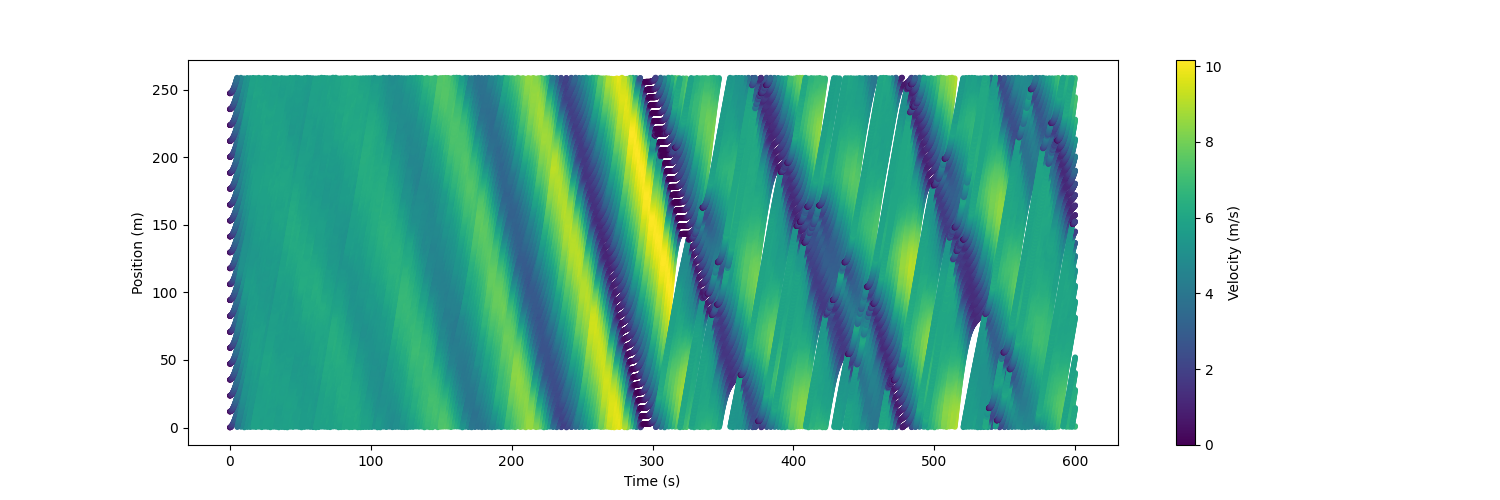
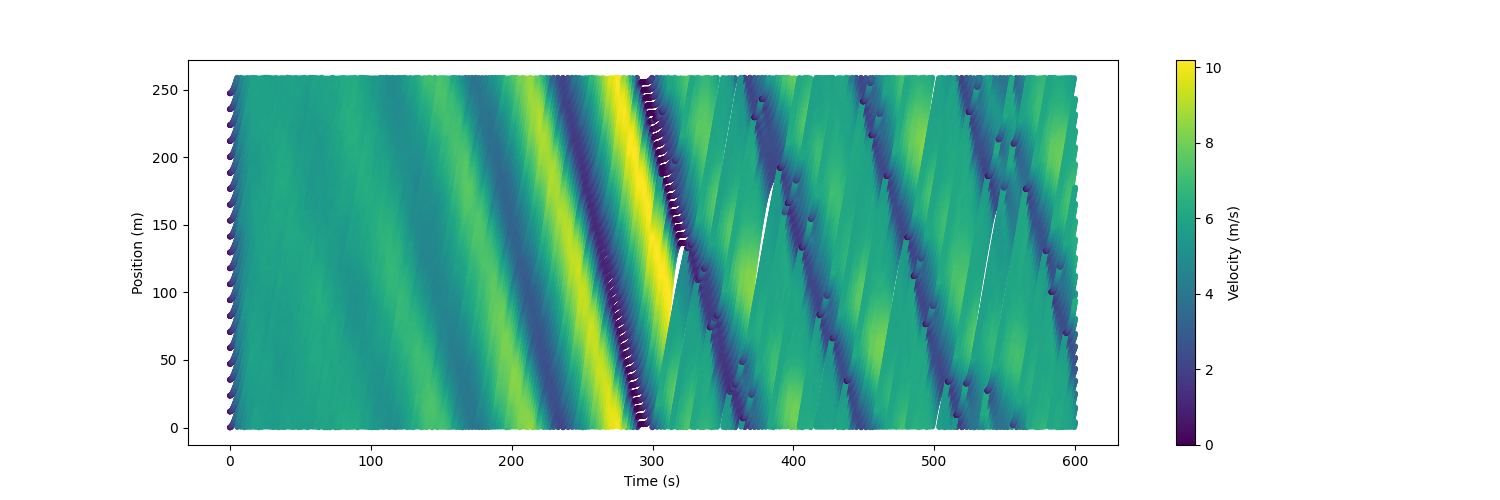
pushing change

diff --git a/Ring_Road/render/render.py b/Ring_Road/render/render.py
@@ -6,8 +6,9 @@ from Ring_Road.constants import DISPLAY_WIDTH, DISPLAY_HEIGHT, WHITE, BLACK, FPS
 
 class Render:
 
-    def __init__(self, env):
-        self.env = env
+    def __init__(self, agents, vehicles):
+        self.agents = agents
+        self.env_veh = vehicles
         pygame.init()
         pygame.display.set_caption("RingRoad Env")
         self.screen = pygame.display.set_mode((DISPLAY_WIDTH, DISPLAY_HEIGHT))
@@ -25,7 +26,7 @@ class Render:
 
     def _display_action(self):
 
-        for agents in self.env.agents:
+        for agents in self.agents:
 
             if isinstance(agents.stored_action, numpy.ndarray):
                 if agents.stored_action[0] > 0:
@@ -43,9 +44,9 @@ class Render:
         self._check_quit()
         self._create_background()
 
-        for agent in self.env.agents:
+        for ag_id, agent in self.agents.items():
             self._rotate_image_display(agent.image, agent.rotation, agent.xpos, agent.ypos)
-        for env_veh in self.env.env_veh:
+        for env_veh in self.env_veh:
             self._rotate_image_display(env_veh.image, env_veh.rotation, env_veh.xpos, env_veh.ypos)
 
         self._display_action()

diff --git a/main.py b/main.py
@@ -1,7 +1,7 @@
 import scripts.train_dqn, scripts.evaluate_idm, scripts.train_ppo, scripts.multiagent_train_ppo
 import argparse
 
-mixer = "qmix"
+mixer = "vdn"
 
 def main():
     parser = argparse.ArgumentParser()
@@ -31,7 +31,7 @@ def main():
 
     elif args.type == "multiagent_qmix_eval":
         scripts.multiagent_train_ppo.evaluate_qmix(
-            "/home/vamsi/Documents/GitHub/RingRoad-RL/Models/QMIX/QMIX/QMIX_grouped_ringroad_ff91a_00000_0_2022-05-04_20-59-33/checkpoint_000100/checkpoint-100", mixer)
+            "/home/vamsi/Documents/GitHub/RingRoad-RL/Models/VDN/QMIX/QMIX_grouped_ringroad_f0ec2_00000_0_2022-05-04_08-20-22/checkpoint_000095/checkpoint-95", mixer)
     elif args.type == "eval_idm":
         scripts.evaluate_idm.evaluate()
 

diff --git a/Ring_Road/envs/multiagent_ringroad.py b/Ring_Road/envs/multiagent_ringroad.py
@@ -45,8 +45,8 @@ class MultiAgentRingRoad(MultiAgentEnv):
         self.crashed_state = None
         self.state_extractor = StateExtractor(self)
 
-        if self.enable_render:
-            self.viewer = Render(self)
+        # if self.enable_render:
+        self.viewer = Render(self.agents, self.env_veh)
         self.collision = False
         np.random.seed(42)
 

diff --git a/Ring_Road/constants.py b/Ring_Road/constants.py
@@ -35,7 +35,7 @@ def clean_image(mycar_image):
                 mycar_image.set_at((x, y), (0, 0, 0, 0))
 
 
-cwd = "/home/vamsi/GitHub/RingRoad-RL"
+cwd = "/home/vamsi/Documents/GitHub/RingRoad-RL"
 
 env_car_image = pygame.image.load(cwd + "/Ring_Road/sprites/env_vehicle.png")
 env_car_image = pygame.transform.scale(env_car_image, (CAR_PIX_LENGTH, CAR_PIX_WIDTH))

diff --git a/scripts/multiagent_train_ppo.py b/scripts/multiagent_train_ppo.py
@@ -4,10 +4,10 @@ from Ring_Road.constants import MAX_EPISODE_LENGTH, WARMUP_STEPS
 from experiment import Experiment
 
 env_config = {
-    "enable_render": False,
+    "enable_render": True,
     "agent_type": "continuous",
     "eval_mode": True,
-    "algorithm": "qmix",
+    "algorithm": "vdn",
     "time_steps": 1000000
 }
 

diff --git a/Ring_Road/vehicle/state.py b/Ring_Road/vehicle/state.py
@@ -99,7 +99,7 @@ class StateExtractor:
 
         accel = self.get_safe_action_instantaneous(accel, front_veh, agent)
         accel = self.get_safe_velocity_action(accel, front_veh, agent)
-        accel = np.clip(accel, -1, 1)
+        # accel = np.clip(accel, -1, 1)
         return accel
 
     def get_average_vel(self):

diff --git a/experiment.py b/experiment.py
@@ -394,6 +394,7 @@ class Experiment:
             prev_a = action
             prev_r = reward
             state = state_out
+            env.render()
 
             print(env.env.action_steps, reward)
         met.plot(self.config)
